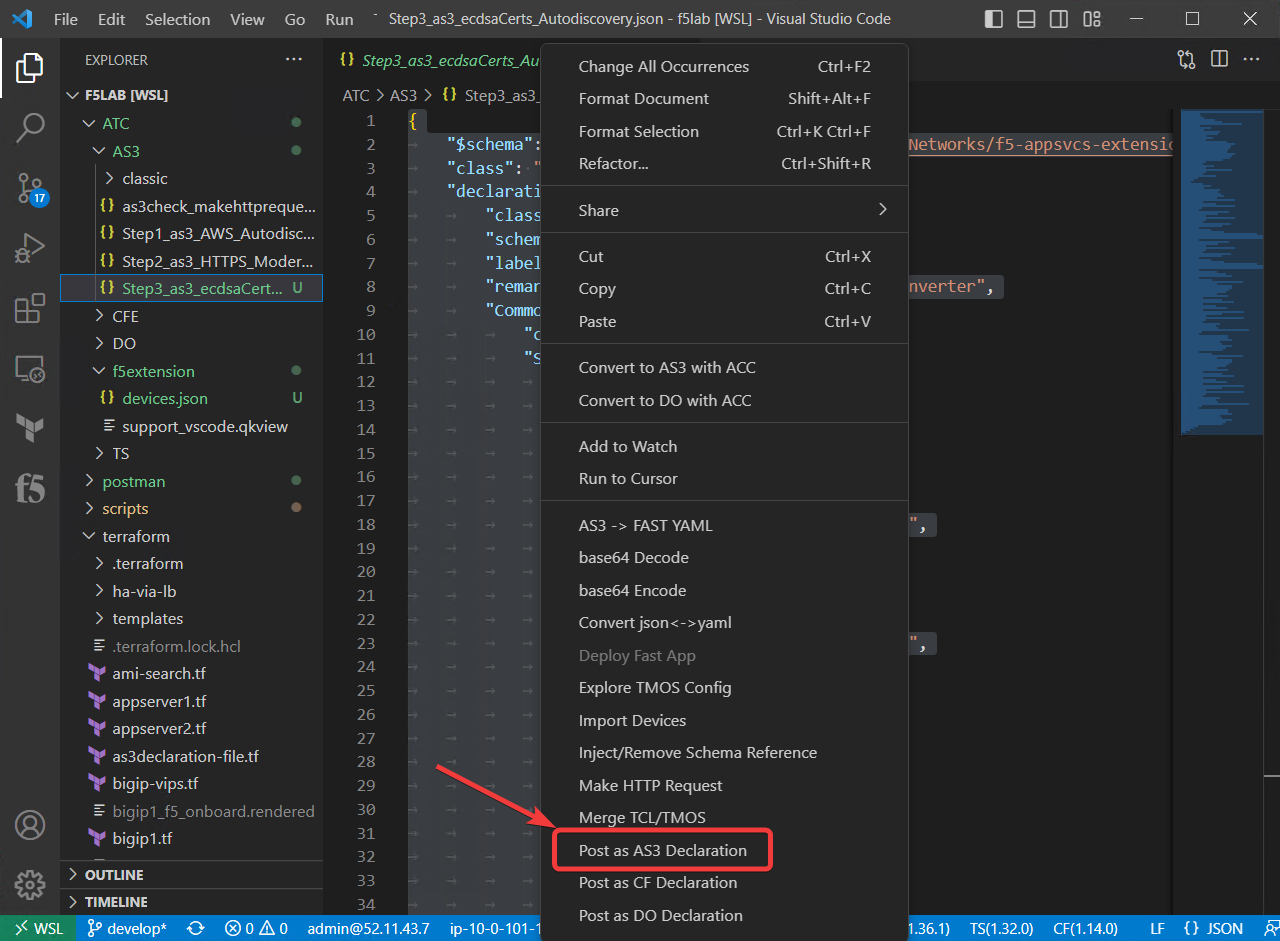
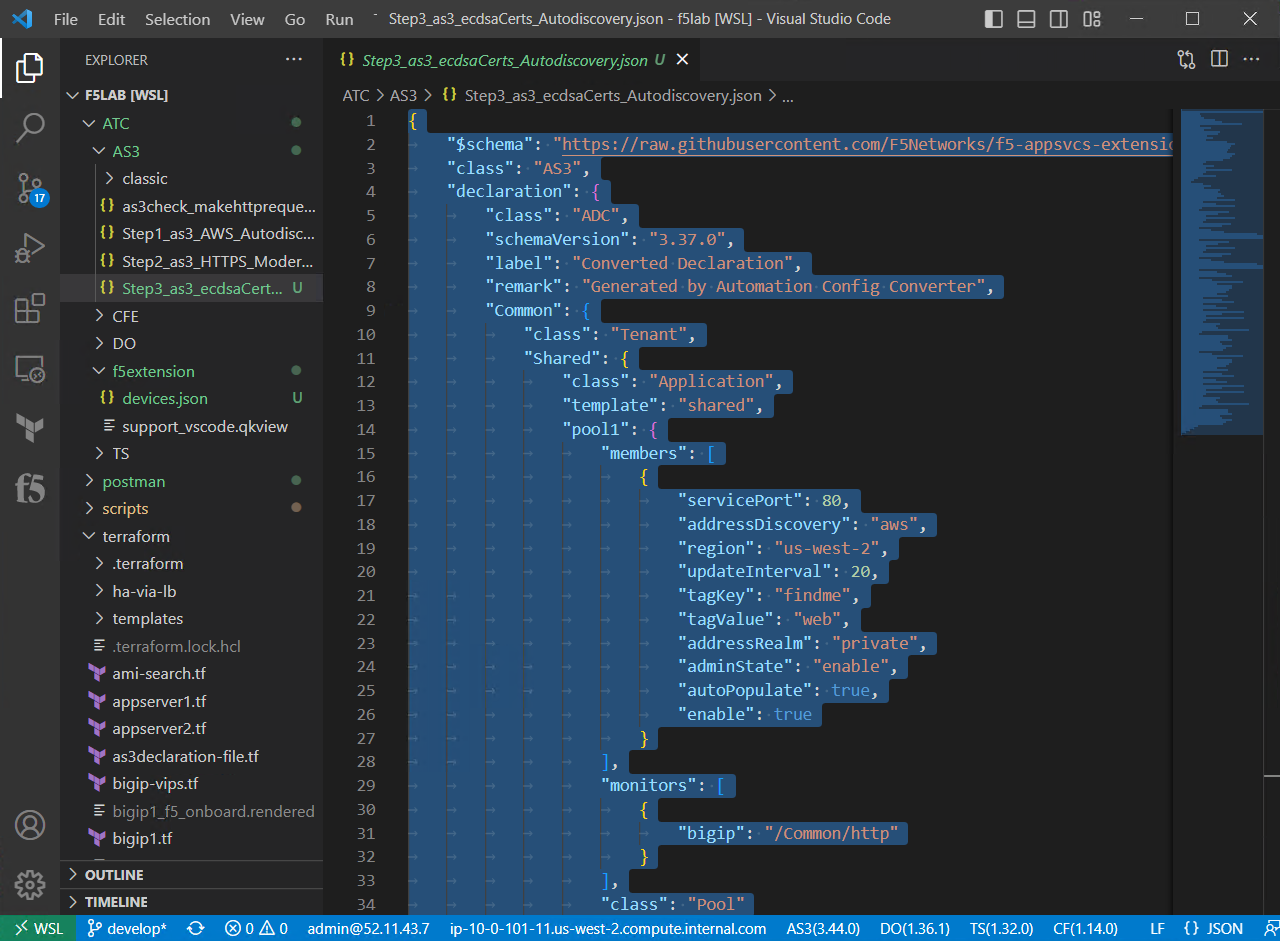
AS3 Lab4

Changed region(s): [[0.3125, 0.0616, 0.9375, 1.0]]

diff --git a/docs/class13/module3/lab4.rst b/docs/class13/module3/lab4.rst
@@ -133,79 +133,69 @@ Step2 Enable modern protocols such as HTTP/2 with AS3 and Service Discovery
 
 #. Verify connectivity to the HTTPS application and note the ciphers in use
 
+     * Open you browser and in a new tab, navigate to the IP address ``vip1_public_ip``
      * Use developer tools to see the ciphers in use
 
-    .. image:: ./images/developertools.png
+
+    .. image:: ./images/02as3_step2_web.png
         :alt: BIGIP management GUI shared pool verification
         :width: 80%
 
+    .. image:: ./images/developertools.png
+        :alt: BIGIP management GUI shared pool verification
+        :width: 50%
+
     .. image:: ./images/02as3_step2_Ciphers.png
         :alt: BIGIP management GUI VS verification
-        :width: 80%
+        :width: 50%
 
 
 
-Step3 Enable modern protocols such as HTTP/2 with AS3 and Service Discovery
+Step3 Adding ECDSA certificates to your application
 --------------------------------------------------------------------------------
 
 #. Close the untitled panel
 
-#. Close the Step1 declaration.
+#. Close the previous declaration.
 
-#. Open Step2_as3_HTTPS_Autodiscovery.json
+#. Open ``Step3_as3_ecdsaCerts_Autodiscovery.json``
 
 
-    .. image:: ./images/02as3_step2a.png
+    .. image:: ./images/02as3_step3a.png
         :alt: load JSON file
         :width: 80%
 
 
-    .. image:: ./images/02as3_step2b.png
+
+    .. image:: ./images/02as3_step3b.png
         :alt: POST as AS3 declaration
         :width: 80%
 
 
-    .. image:: ./images/02as3_step1c.png
+
+    .. image:: ./images/02as3_step3_success.png
         :alt: Posting Declaration
         :width: 80%
 
 
-    .. image:: ./images/02as3_step2_success.png
-        :alt: Successful deployment
+
+#. In the Management GUI for both BIG-IP devices, confirm the creation of 
+
+     * Two ECDSA certificates were created
+         * System -> certificate Management ->Traffic Certificate Management -> SSL Certificate List 
+
+    .. image:: ./images/02as3_step3_ecdsacerts.png
+        :alt: BIGIP management GUI ECDSA certificates
+        :width: 80%
+
+#. In the browser verify that you see the ECDSA ciphers in use.        
+
+    .. image:: ./images/02as3_step2_vshttp2.png
+        :alt: BIGIP management GUI http2 verification
         :width: 80%
 
 
-    .. image:: ./images/02as3_step2verify1.png
-        :alt: BIGIP management GUI partition verification
-        :width: 80%
 
-
-    .. image:: ./images/02as3_step2verify1pool.png
-        :alt: BIGIP management GUI shared pool verification
-        :width: 80%
-
-
-    .. image:: ./images/02as3_step2verify1vs.png
-        :alt: BIGIP management GUI VS verification
-        :width: 80%
-
-
-    .. image:: ./images/02as3_step2verify2.png
-        :alt: BIGIP management GUI partition verification
-        :width: 80%
-
-
-    .. image:: ./images/02as3_step2verify2pool.png
-        :alt: BIGIP management GUI shared pool verification
-        :width: 80%
-
-
-    .. image:: ./images/02as3_step2verify2vs.png
-        :alt: BIGIP management GUI VS verification
-        :width: 80%
-
-Test application access
---------------------------------------------------------------------------------
 
 
 
